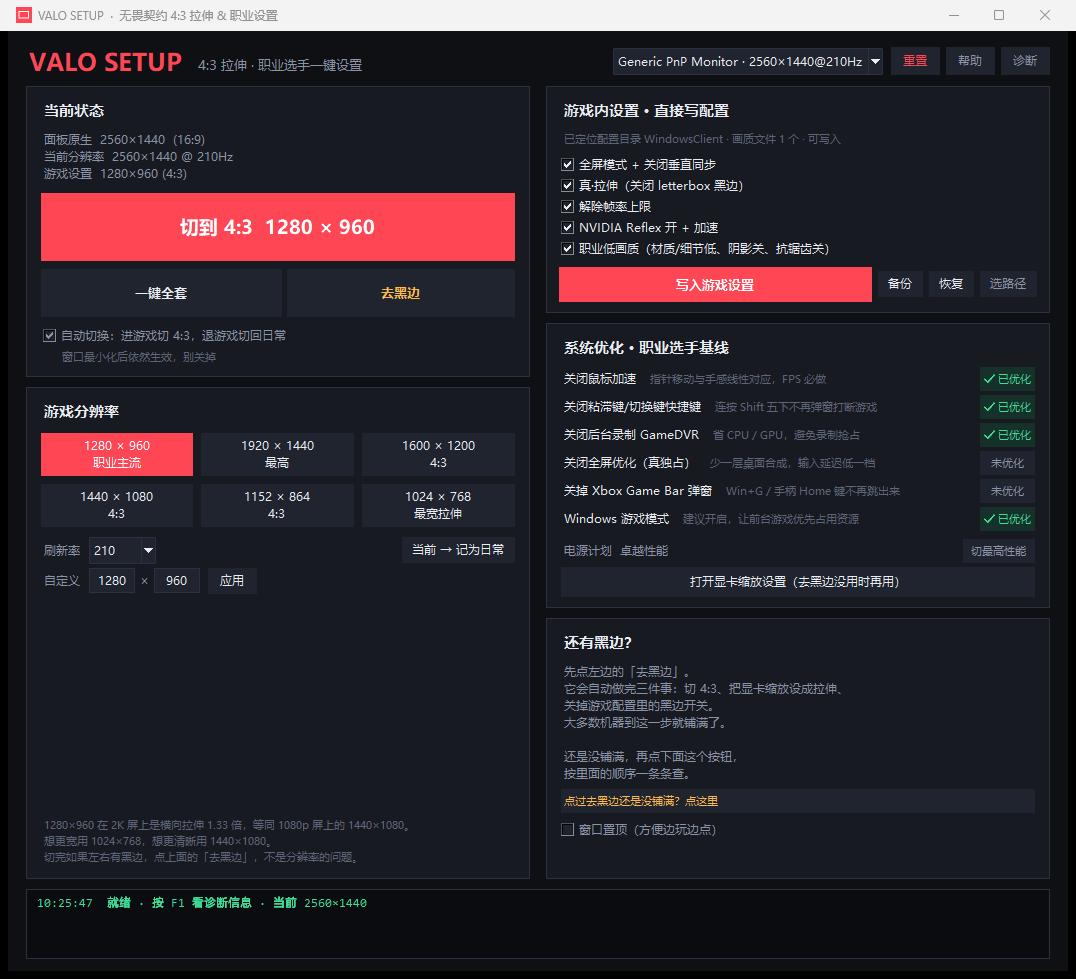
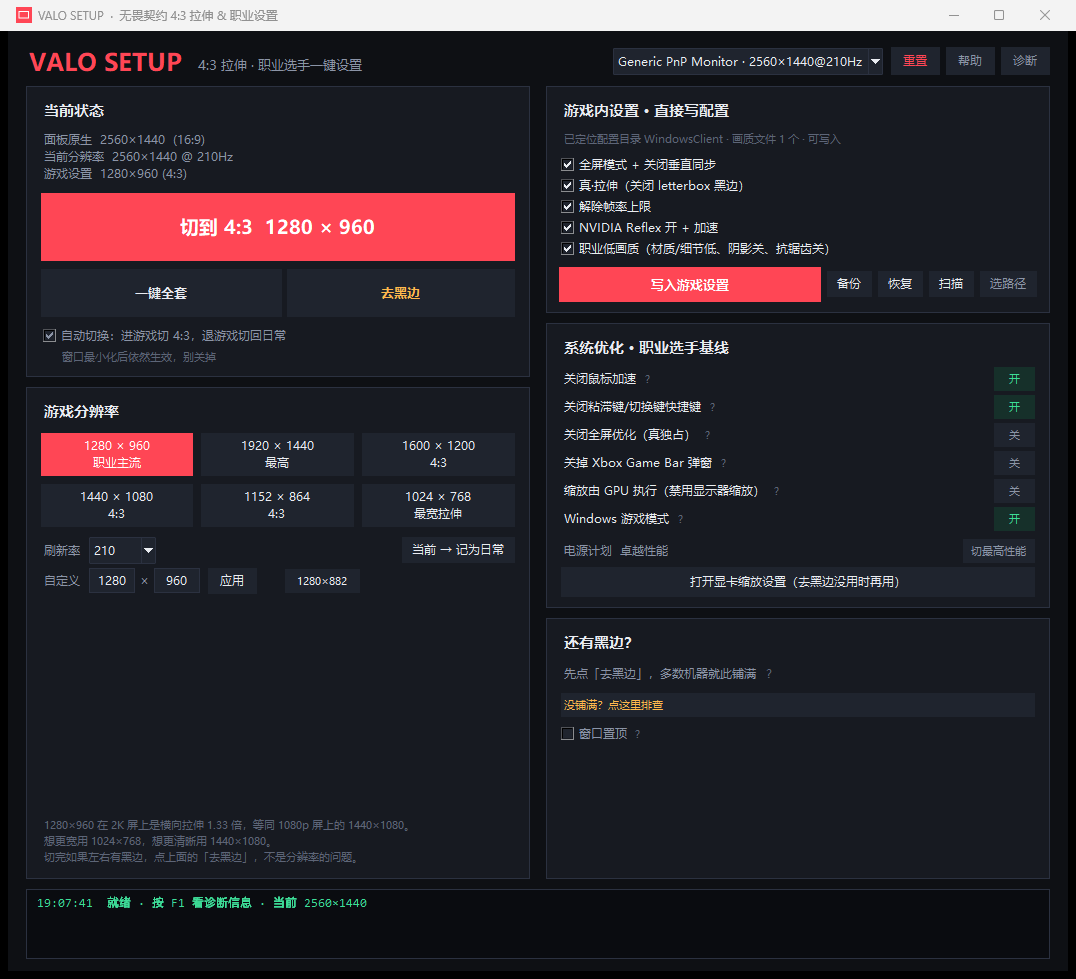
fix: system toggles can now turn OFF; gpu_scale recovers via mode re-apply
- flip() read current state and passes inverted value; items() setters
  now take a bool (True=optimized state); optimize_all passes True
- gpu_scaling_on/set_gpu_scaling moved to lazy valo_core import
  (NameError would have broken the whole right panel)
- verified on live system: driver rejects direct IDENTITY->STRETCHED
  switch on non-native modes; set_gpu_scaling(True) now falls back to
  re-applying the current resolution which restores stretch
- 4:3 roundtrip True->False->True verified; native mode reports the
  driver reason through flip's log line

diff --git a/valo_sys.py b/valo_sys.py
@@ -221,15 +221,30 @@ def set_target_device(device_name):
 
 def gpu_scaling_on():
     """缩放是否由 GPU 执行（=「拉伸填充」生效且未被驱动接管）"""
-    m = scaling_modes(_target_dev[0] or None)
+    import valo_core as core
+    m = core.scaling_modes(_target_dev[0] or None)
     if not m:
         return False
-    return SC_STRETCH in m
+    return core.SC_STRETCH in m
 
 
 def set_gpu_scaling(on):
-    ok, msg = set_scaling(bool(on), persist=False, device=_target_dev[0] or None)
-    return ok, msg
+    import valo_core as core
+    ok, msg = core.set_scaling(bool(on), persist=False, device=_target_dev[0] or None)
+    if ok:
+        return True, msg
+    if on:
+        # 驱动会拒绝「不缩放 → 拉伸」的直改；重新提交当前分辨率可触发默认拉伸
+        try:
+            m = core.pick(None, core.monitors())
+            cur = m["current"] or {}
+            core.set_mode(m, cur.get("w"), cur.get("h"), cur.get("hz"))
+            after = core.scaling_modes(_target_dev[0] or None) or []
+            if core.SC_STRETCH in after:
+                return True, "已恢复拉伸填充（重新应用分辨率）"
+        except Exception:
+            pass
+    return False, msg
 
 
 # ---------------------------------------------------------------- 结构化条目
@@ -240,27 +255,27 @@ def _item(key, label, hint, getter, setter, note=""):
 
 
 def items():
-    """系统优化项：UI 直接遍历渲染成开关，optimize_all 一次全开"""
+    """系统优化项：UI 渲染成开关。set 接受 bool（True=优化态），flip 会传反向值"""
     return [
         _item("mouse", "关闭鼠标加速",
               "指针移动与手感线性对应，FPS 必做",
-              lambda: not mouse_accel_on(), lambda: set_mouse_accel(True)),
+              lambda: not mouse_accel_on(), lambda on: set_mouse_accel(on)),
         _item("sticky", "关闭粘滞键/切换键快捷键",
               "连按 Shift 五下不再弹窗打断游戏",
               lambda: not sticky_hotkeys_on(),
-              lambda: set_sticky_hotkeys(True), note="注销后生效"),
+              lambda on: set_sticky_hotkeys(on), note="注销后生效"),
         _item("fse", "关闭全屏优化（真独占）",
               "少一层桌面合成，输入延迟低一档",
-              fse_optimized, lambda: set_fse_optimized(True)),
+              fse_optimized, lambda on: set_fse_optimized(on)),
         _item("gamebar", "关掉 Xbox Game Bar 弹窗",
               "Win+G / 手柄 Home 键不再跳出来",
-              gamebar_clean, lambda: set_gamebar_clean(True)),
+              gamebar_clean, lambda on: set_gamebar_clean(on)),
         _item("gpu_scale", "缩放由 GPU 执行（禁用显示器缩放）",
               "教程里的「全屏 + GPU」：4:3 拉伸更快更稳",
-              gpu_scaling_on, lambda: set_gpu_scaling(True)),
+              gpu_scaling_on, lambda on: set_gpu_scaling(on)),
         _item("gamemode", "Windows 游戏模式",
               "建议开启，让前台游戏优先占用资源",
-              gamemode_on, lambda: set_gamemode(True)),
+              gamemode_on, lambda on: set_gamemode(on)),
     ]
 
 
@@ -280,7 +295,7 @@ def optimize_all():
     ok, detail = 0, []
     for it in items():
         try:
-            it["set"]()
+            it["set"](True)
             ok += 1
         except Exception as e:
             detail.append("%s: %r" % (it["label"], e))

diff --git a/valo_app.py b/valo_app.py
@@ -869,13 +869,26 @@ class App:
     # ------------------------------------------------------------ 动作：系统
 
     def flip(self, key):
+        """真正的开关：读当前状态，反向设置；驱动返回的原因透传给用户"""
         for it in sysx.items():
             if it["key"] == key:
                 try:
-                    it["set"]()
-                    self.say("已应用：%s%s" % (it["label"],
-                                              ("（%s）" % it["note"]) if it.get("note") else ""),
-                             "ok")
+                    was_on = bool(it["get"]())
+                    ret = it["set"](not was_on)
+                    now = bool(it["get"]())
+                    if now and not was_on:
+                        verb = "开启"
+                    elif was_on and not now:
+                        verb = "关闭"
+                    else:
+                        verb = "未变化"
+                    extra = ""
+                    if isinstance(ret, tuple) and len(ret) == 2 and ret[1]:
+                        extra = "（%s）" % ret[1]
+                    self.say("%s：%s%s%s" % (verb, it["label"],
+                                             ("（%s）" % it["note"]) if it.get("note") else "",
+                                             extra),
+                             "ok" if now != was_on else "warn")
                 except Exception as e:
                     self.say("设置失败 %s：%r" % (it["label"], e), "err")
                 break
